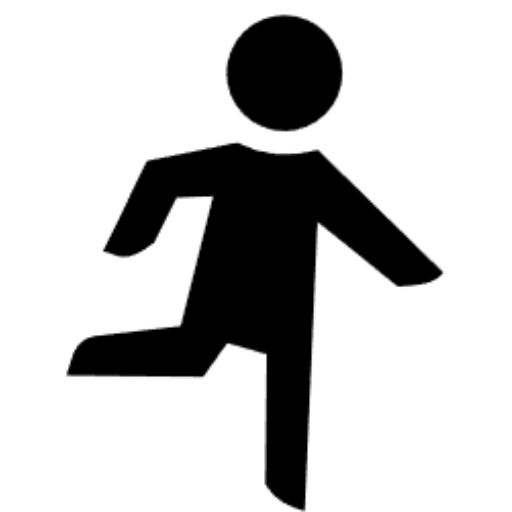
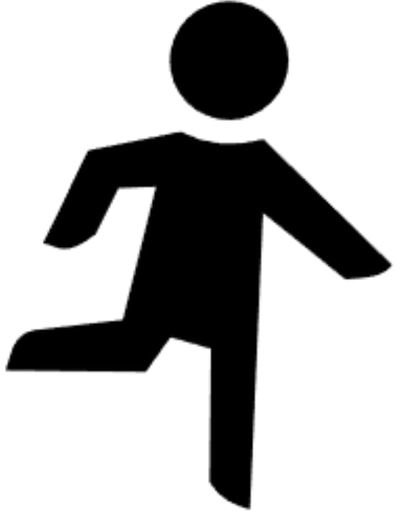
person can be moved, began coin collection implementation

Changed region(s): [[0.0, 0.1875, 0.99, 1.0], [0.42, 0.0, 0.72, 0.2188]]

diff --git a/level001.ts b/level001.ts
@@ -1,3 +1,5 @@
+const person: HTMLElement | null = document.getElementById("person");
+
 console.log("level 1 is ready!");
 
 window.addEventListener("message", (event) => {
@@ -6,3 +8,9 @@ window.addEventListener("message", (event) => {
   // let result: Function = Function(event.data)
   let result: string = Function(event.data)();
 });
+
+// TODO: use this to check collision, but do it flash card style :>
+// this.position.x < other.position.x + other.width &&
+// this.position.x + this.width > other.position.x &&
+// this.position.y < other.position.y + other.height &&
+// this.position.y + this.height > other.position.y

diff --git a/level001.js b/level001.js
@@ -1,7 +1,13 @@
 "use strict";
+var person = document.getElementById("person");
 console.log("level 1 is ready!");
 window.addEventListener("message", function (event) {
     console.log("Child Origin is set to", window.origin);
     // let result: Function = Function(event.data)
     var result = Function(event.data)();
 });
+// TODO: use this to check collision, but do it flash card style :>
+// this.position.x < other.position.x + other.width &&
+// this.position.x + this.width > other.position.x &&
+// this.position.y < other.position.y + other.height &&
+// this.position.y + this.height > other.position.y

diff --git a/script.js b/script.js
@@ -45,7 +45,7 @@ function createLevel() {
     // Access this in devtools via element.style on the iframe
     new_iframe.style.display = "flex";
     new_iframe.style.width = "100%";
-    new_iframe.style.height = "120%";
+    new_iframe.style.height = "170%";
     level_canvas === null || level_canvas === void 0 ? void 0 : level_canvas.appendChild(new_iframe);
     level001_iframe = new_iframe;
     createInputListener();

diff --git a/level001.html b/level001.html
@@ -13,7 +13,8 @@
       "Help me collect the coins so I can go to the theme park!"
     </div>
     <div class="gameplay-container">
-      <img src="person.png" width="150px" height="150px" />
+      <img id="person" src="person.png" width="117px" height="150px" />
+      <img class="coin" src="coin.png" width="80px" height="80px" />
     </div>
   </body>
 

diff --git a/script.ts b/script.ts
@@ -61,7 +61,7 @@ function createLevel() {
   // Access this in devtools via element.style on the iframe
   new_iframe.style.display = "flex";
   new_iframe.style.width = "100%";
-  new_iframe.style.height = "120%";
+  new_iframe.style.height = "170%";
 
   level_canvas?.appendChild(new_iframe);
   level001_iframe = new_iframe as HTMLIFrameElement;

diff --git a/styles_child.css b/styles_child.css
@@ -1,7 +1,6 @@
 html {
   background-color: rgb(0, 0, 0);
   color: lavender;
-  display: grid;
 }
 
 .goal-container {
@@ -12,6 +11,7 @@ html {
 
 .gameplay-container {
   display: flex;
+  align-items: center;
 }
 
 iframe {

diff --git a/styles_level001.css b/styles_level001.css
@@ -1,4 +1,11 @@
 body {
   background-color: skyblue;
   color: black;
+  overflow: hidden;
+  white-space: pre-line;
+}
+
+.coin {
+  margin-right: 2em;
+  margin-left: 2em;
 }

diff --git a/README.md b/README.md
@@ -1,2 +1,1 @@
 # js learn along2
-
